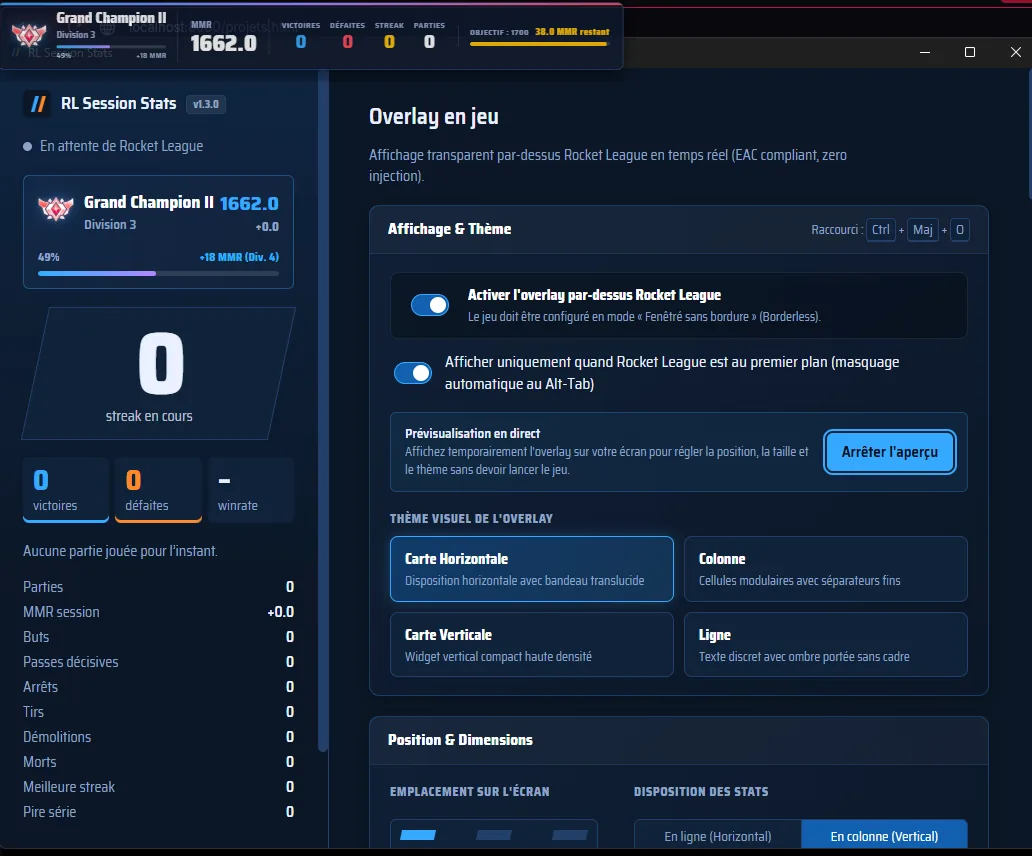
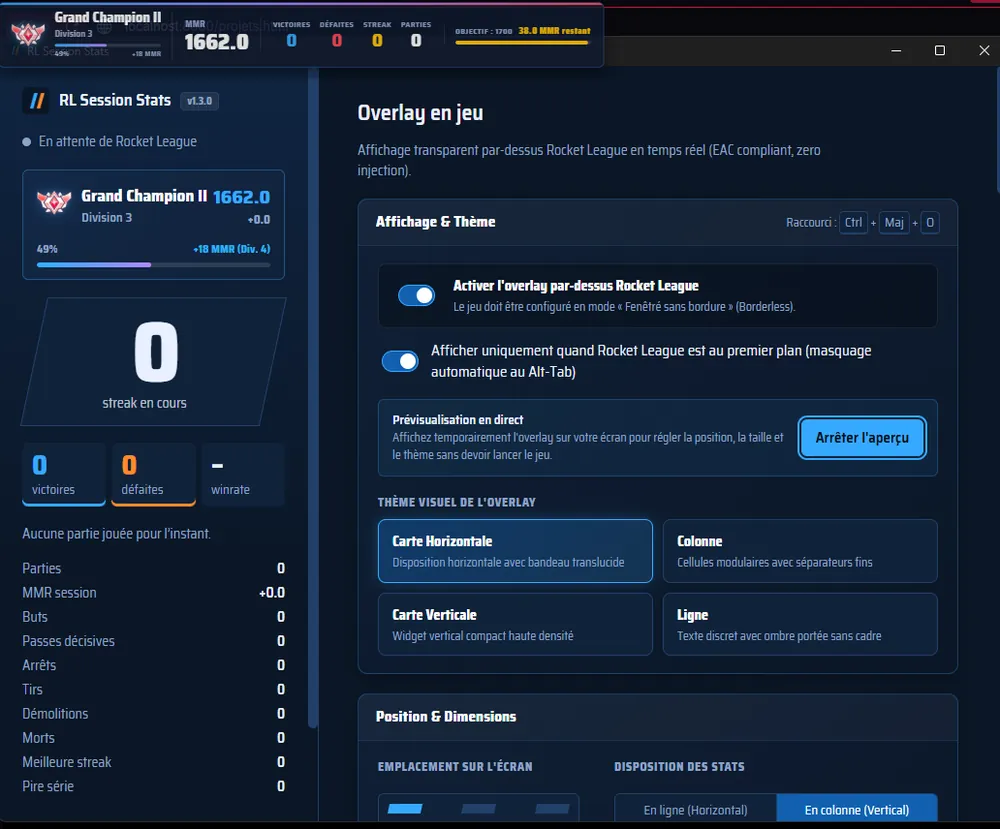
Audit Lighthouse : accessibilité, SEO et bonnes pratiques à 100, captures plus légères
- Cartes Projets : plus de role="link" sur <article> ; lien « Télécharger → » pour le clavier
- Projets : titre de section h2 (lecteurs d'écran) avant les cartes, ordre des titres correct
- Fenêtre de téléchargement : le lien « Relancer » a une adresse dès sa création
- .sr passe dans style.css (utilisé sur plusieurs pages)
- Captures redimensionnées à 1000 px de large : 410 Ko -> 194 Ko au total

diff --git a/downloads.html b/downloads.html
@@ -23,16 +23,16 @@
       href="https://fonts.googleapis.com/css2?family=Bricolage+Grotesque:opsz,wght@12..96,500;12..96,700&family=Inter:wght@400;500;600&family=JetBrains+Mono:wght@400;500&display=swap"
     />
     <script>(function(d){d.classList.add("js");var L="fr";try{L=localStorage.getItem("lang")||((navigator.language||"fr").slice(0,2)==="fr"?"fr":"en")}catch(e){}if(L==="en")d.classList.add("i18n-wait");try{if(localStorage.getItem("calm")==="1")d.classList.add("calm");else if(sessionStorage.getItem("wipe")==="1")d.classList.add("wipe");else if(!sessionStorage.getItem("boot"))d.classList.add("boot")}catch(e){}})(document.documentElement)</script>
-    <link rel="stylesheet" href="CSS/style.css?v=233c2cea" />
+    <link rel="stylesheet" href="CSS/style.css?v=3c6a62b0" />
     <link rel="stylesheet" href="CSS/ui.css?v=3f91b96d" />
     <link rel="stylesheet" href="CSS/home.css?v=75da7b65" />
-    <link rel="stylesheet" href="CSS/downloads.css?v=37bba314" />
-    <script src="JS/i18n-en.js?v=34f19c7e" defer></script>
+    <link rel="stylesheet" href="CSS/downloads.css?v=a6cef253" />
+    <script src="JS/i18n-en.js?v=0fb7e732" defer></script>
     <script src="JS/i18n.js?v=fdd8db68" defer></script>
     <script src="JS/main.js?v=d1fcf276" defer></script>
-    <script src="JS/ui.js?v=2586e102" defer></script>
+    <script src="JS/ui.js?v=d70b3c25" defer></script>
     <script src="JS/downloads-data.js?v=7bf1e993" defer></script>
-    <script src="JS/downloads.js?v=c1819875" defer></script>
+    <script src="JS/downloads.js?v=cfde858e" defer></script>
   </head>
   <body>
     <div class="progress" aria-hidden="true"></div>

diff --git a/projets.html b/projets.html
@@ -23,12 +23,12 @@
       href="https://fonts.googleapis.com/css2?family=Bricolage+Grotesque:opsz,wght@12..96,500;12..96,700&family=Inter:wght@400;500;600&family=JetBrains+Mono:wght@400;500&display=swap"
     />
     <script>(function(d){d.classList.add("js");var L="fr";try{L=localStorage.getItem("lang")||((navigator.language||"fr").slice(0,2)==="fr"?"fr":"en")}catch(e){}if(L==="en")d.classList.add("i18n-wait");try{if(localStorage.getItem("calm")==="1")d.classList.add("calm");else if(sessionStorage.getItem("wipe")==="1")d.classList.add("wipe");else if(!sessionStorage.getItem("boot"))d.classList.add("boot")}catch(e){}})(document.documentElement)</script>
-    <link rel="stylesheet" href="CSS/style.css?v=233c2cea" />
+    <link rel="stylesheet" href="CSS/style.css?v=3c6a62b0" />
     <link rel="stylesheet" href="CSS/ui.css?v=3f91b96d" />
-    <script src="JS/i18n-en.js?v=34f19c7e" defer></script>
+    <script src="JS/i18n-en.js?v=0fb7e732" defer></script>
     <script src="JS/i18n.js?v=fdd8db68" defer></script>
     <script src="JS/main.js?v=d1fcf276" defer></script>
-    <script src="JS/ui.js?v=2586e102" defer></script>
+    <script src="JS/ui.js?v=d70b3c25" defer></script>
   </head>
   <body>
     <div class="progress" aria-hidden="true"></div>
@@ -57,6 +57,7 @@
 
       <section class="block">
         <div class="wrap">
+          <h2 class="sr">Projets phares</h2>
           <div class="featured" data-stagger>
             <article class="project reveal" data-repo="J.A.R.V.I.S" data-dl="dl-jarvis" data-art="voice">
               <div class="shot" data-img="images/projects/jarvis.webp"><span>J.A.R.V.I.S</span></div>

diff --git a/index.html b/index.html
@@ -26,13 +26,13 @@
       href="https://fonts.googleapis.com/css2?family=Bricolage+Grotesque:opsz,wght@12..96,500;12..96,700&family=Inter:wght@400;500;600&family=JetBrains+Mono:wght@400;500&display=swap"
     />
     <script>(function(d){d.classList.add("js");var L="fr";try{L=localStorage.getItem("lang")||((navigator.language||"fr").slice(0,2)==="fr"?"fr":"en")}catch(e){}if(L==="en")d.classList.add("i18n-wait");try{if(localStorage.getItem("calm")==="1")d.classList.add("calm");else if(sessionStorage.getItem("wipe")==="1")d.classList.add("wipe");else if(!sessionStorage.getItem("boot"))d.classList.add("boot")}catch(e){}})(document.documentElement)</script>
-    <link rel="stylesheet" href="CSS/style.css?v=233c2cea" />
+    <link rel="stylesheet" href="CSS/style.css?v=3c6a62b0" />
     <link rel="stylesheet" href="CSS/ui.css?v=3f91b96d" />
     <link rel="stylesheet" href="CSS/home.css?v=75da7b65" />
-    <script src="JS/i18n-en.js?v=34f19c7e" defer></script>
+    <script src="JS/i18n-en.js?v=0fb7e732" defer></script>
     <script src="JS/i18n.js?v=fdd8db68" defer></script>
     <script src="JS/main.js?v=d1fcf276" defer></script>
-    <script src="JS/ui.js?v=2586e102" defer></script>
+    <script src="JS/ui.js?v=d70b3c25" defer></script>
     <script src="JS/home.js?v=de35859e" defer></script>
   </head>
   <body class="home">

diff --git a/404.html b/404.html
@@ -18,13 +18,13 @@
       href="https://fonts.googleapis.com/css2?family=Bricolage+Grotesque:opsz,wght@12..96,500;12..96,700&family=Inter:wght@400;500;600&family=JetBrains+Mono:wght@400;500&display=swap"
     />
     <script>(function(d){d.classList.add("js");var L="fr";try{L=localStorage.getItem("lang")||((navigator.language||"fr").slice(0,2)==="fr"?"fr":"en")}catch(e){}if(L==="en")d.classList.add("i18n-wait");try{if(localStorage.getItem("calm")==="1")d.classList.add("calm");else if(sessionStorage.getItem("wipe")==="1")d.classList.add("wipe");else if(!sessionStorage.getItem("boot"))d.classList.add("boot")}catch(e){}})(document.documentElement)</script>
-    <link rel="stylesheet" href="CSS/style.css?v=233c2cea" />
+    <link rel="stylesheet" href="CSS/style.css?v=3c6a62b0" />
     <link rel="stylesheet" href="CSS/ui.css?v=3f91b96d" />
     <link rel="stylesheet" href="CSS/home.css?v=75da7b65" />
-    <script src="JS/i18n-en.js?v=34f19c7e" defer></script>
+    <script src="JS/i18n-en.js?v=0fb7e732" defer></script>
     <script src="JS/i18n.js?v=fdd8db68" defer></script>
     <script src="JS/main.js?v=d1fcf276" defer></script>
-    <script src="JS/ui.js?v=2586e102" defer></script>
+    <script src="JS/ui.js?v=d70b3c25" defer></script>
   </head>
   <body>
     <div class="progress" aria-hidden="true"></div>

diff --git a/apropos.html b/apropos.html
@@ -23,12 +23,12 @@
       href="https://fonts.googleapis.com/css2?family=Bricolage+Grotesque:opsz,wght@12..96,500;12..96,700&family=Inter:wght@400;500;600&family=JetBrains+Mono:wght@400;500&display=swap"
     />
     <script>(function(d){d.classList.add("js");var L="fr";try{L=localStorage.getItem("lang")||((navigator.language||"fr").slice(0,2)==="fr"?"fr":"en")}catch(e){}if(L==="en")d.classList.add("i18n-wait");try{if(localStorage.getItem("calm")==="1")d.classList.add("calm");else if(sessionStorage.getItem("wipe")==="1")d.classList.add("wipe");else if(!sessionStorage.getItem("boot"))d.classList.add("boot")}catch(e){}})(document.documentElement)</script>
-    <link rel="stylesheet" href="CSS/style.css?v=233c2cea" />
+    <link rel="stylesheet" href="CSS/style.css?v=3c6a62b0" />
     <link rel="stylesheet" href="CSS/ui.css?v=3f91b96d" />
-    <script src="JS/i18n-en.js?v=34f19c7e" defer></script>
+    <script src="JS/i18n-en.js?v=0fb7e732" defer></script>
     <script src="JS/i18n.js?v=fdd8db68" defer></script>
     <script src="JS/main.js?v=d1fcf276" defer></script>
-    <script src="JS/ui.js?v=2586e102" defer></script>
+    <script src="JS/ui.js?v=d70b3c25" defer></script>
     <script src="JS/interests.js?v=b8390380" defer></script>
   </head>
   <body>

diff --git a/competences.html b/competences.html
@@ -26,12 +26,12 @@
       href="https://fonts.googleapis.com/css2?family=Bricolage+Grotesque:opsz,wght@12..96,500;12..96,700&family=Inter:wght@400;500;600&family=JetBrains+Mono:wght@400;500&display=swap"
     />
     <script>(function(d){d.classList.add("js");var L="fr";try{L=localStorage.getItem("lang")||((navigator.language||"fr").slice(0,2)==="fr"?"fr":"en")}catch(e){}if(L==="en")d.classList.add("i18n-wait");try{if(localStorage.getItem("calm")==="1")d.classList.add("calm");else if(sessionStorage.getItem("wipe")==="1")d.classList.add("wipe");else if(!sessionStorage.getItem("boot"))d.classList.add("boot")}catch(e){}})(document.documentElement)</script>
-    <link rel="stylesheet" href="CSS/style.css?v=233c2cea" />
+    <link rel="stylesheet" href="CSS/style.css?v=3c6a62b0" />
     <link rel="stylesheet" href="CSS/ui.css?v=3f91b96d" />
-    <script src="JS/i18n-en.js?v=34f19c7e" defer></script>
+    <script src="JS/i18n-en.js?v=0fb7e732" defer></script>
     <script src="JS/i18n.js?v=fdd8db68" defer></script>
     <script src="JS/main.js?v=d1fcf276" defer></script>
-    <script src="JS/ui.js?v=2586e102" defer></script>
+    <script src="JS/ui.js?v=d70b3c25" defer></script>
   </head>
   <body>
     <div class="progress" aria-hidden="true"></div>

diff --git a/cv.html b/cv.html
@@ -23,12 +23,12 @@
       href="https://fonts.googleapis.com/css2?family=Bricolage+Grotesque:opsz,wght@12..96,500;12..96,700&family=Inter:wght@400;500;600&family=JetBrains+Mono:wght@400;500&display=swap"
     />
     <script>(function(d){d.classList.add("js");var L="fr";try{L=localStorage.getItem("lang")||((navigator.language||"fr").slice(0,2)==="fr"?"fr":"en")}catch(e){}if(L==="en")d.classList.add("i18n-wait");try{if(localStorage.getItem("calm")==="1")d.classList.add("calm");else if(sessionStorage.getItem("wipe")==="1")d.classList.add("wipe");else if(!sessionStorage.getItem("boot"))d.classList.add("boot")}catch(e){}})(document.documentElement)</script>
-    <link rel="stylesheet" href="CSS/style.css?v=233c2cea" />
+    <link rel="stylesheet" href="CSS/style.css?v=3c6a62b0" />
     <link rel="stylesheet" href="CSS/ui.css?v=3f91b96d" />
-    <script src="JS/i18n-en.js?v=34f19c7e" defer></script>
+    <script src="JS/i18n-en.js?v=0fb7e732" defer></script>
     <script src="JS/i18n.js?v=fdd8db68" defer></script>
     <script src="JS/main.js?v=d1fcf276" defer></script>
-    <script src="JS/ui.js?v=2586e102" defer></script>
+    <script src="JS/ui.js?v=d70b3c25" defer></script>
   </head>
   <body>
     <div class="progress" aria-hidden="true"></div>

diff --git a/ghostmesh.html b/ghostmesh.html
@@ -23,12 +23,12 @@
       href="https://fonts.googleapis.com/css2?family=Bricolage+Grotesque:opsz,wght@12..96,500;12..96,700&family=Inter:wght@400;500;600&family=JetBrains+Mono:wght@400;500&display=swap"
     />
     <script>(function(d){d.classList.add("js");var L="fr";try{L=localStorage.getItem("lang")||((navigator.language||"fr").slice(0,2)==="fr"?"fr":"en")}catch(e){}if(L==="en")d.classList.add("i18n-wait");try{if(localStorage.getItem("calm")==="1")d.classList.add("calm");else if(sessionStorage.getItem("wipe")==="1")d.classList.add("wipe");else if(!sessionStorage.getItem("boot"))d.classList.add("boot")}catch(e){}})(document.documentElement)</script>
-    <link rel="stylesheet" href="CSS/style.css?v=233c2cea" />
+    <link rel="stylesheet" href="CSS/style.css?v=3c6a62b0" />
     <link rel="stylesheet" href="CSS/ui.css?v=3f91b96d" />
-    <script src="JS/i18n-en.js?v=34f19c7e" defer></script>
+    <script src="JS/i18n-en.js?v=0fb7e732" defer></script>
     <script src="JS/i18n.js?v=fdd8db68" defer></script>
     <script src="JS/main.js?v=d1fcf276" defer></script>
-    <script src="JS/ui.js?v=2586e102" defer></script>
+    <script src="JS/ui.js?v=d70b3c25" defer></script>
   </head>
   <body>
     <div class="progress" aria-hidden="true"></div>

diff --git a/mentions-legales.html b/mentions-legales.html
@@ -23,12 +23,12 @@
       href="https://fonts.googleapis.com/css2?family=Bricolage+Grotesque:opsz,wght@12..96,500;12..96,700&family=Inter:wght@400;500;600&family=JetBrains+Mono:wght@400;500&display=swap"
     />
     <script>(function(d){d.classList.add("js");var L="fr";try{L=localStorage.getItem("lang")||((navigator.language||"fr").slice(0,2)==="fr"?"fr":"en")}catch(e){}if(L==="en")d.classList.add("i18n-wait");try{if(localStorage.getItem("calm")==="1")d.classList.add("calm");else if(sessionStorage.getItem("wipe")==="1")d.classList.add("wipe");else if(!sessionStorage.getItem("boot"))d.classList.add("boot")}catch(e){}})(document.documentElement)</script>
-    <link rel="stylesheet" href="CSS/style.css?v=233c2cea" />
+    <link rel="stylesheet" href="CSS/style.css?v=3c6a62b0" />
     <link rel="stylesheet" href="CSS/ui.css?v=3f91b96d" />
-    <script src="JS/i18n-en.js?v=34f19c7e" defer></script>
+    <script src="JS/i18n-en.js?v=0fb7e732" defer></script>
     <script src="JS/i18n.js?v=fdd8db68" defer></script>
     <script src="JS/main.js?v=d1fcf276" defer></script>
-    <script src="JS/ui.js?v=2586e102" defer></script>
+    <script src="JS/ui.js?v=d70b3c25" defer></script>
   </head>
   <body>
     <div class="progress" aria-hidden="true"></div>

diff --git a/modshift.html b/modshift.html
@@ -23,12 +23,12 @@
       href="https://fonts.googleapis.com/css2?family=Bricolage+Grotesque:opsz,wght@12..96,500;12..96,700&family=Inter:wght@400;500;600&family=JetBrains+Mono:wght@400;500&display=swap"
     />
     <script>(function(d){d.classList.add("js");var L="fr";try{L=localStorage.getItem("lang")||((navigator.language||"fr").slice(0,2)==="fr"?"fr":"en")}catch(e){}if(L==="en")d.classList.add("i18n-wait");try{if(localStorage.getItem("calm")==="1")d.classList.add("calm");else if(sessionStorage.getItem("wipe")==="1")d.classList.add("wipe");else if(!sessionStorage.getItem("boot"))d.classList.add("boot")}catch(e){}})(document.documentElement)</script>
-    <link rel="stylesheet" href="CSS/style.css?v=233c2cea" />
+    <link rel="stylesheet" href="CSS/style.css?v=3c6a62b0" />
     <link rel="stylesheet" href="CSS/ui.css?v=3f91b96d" />
-    <script src="JS/i18n-en.js?v=34f19c7e" defer></script>
+    <script src="JS/i18n-en.js?v=0fb7e732" defer></script>
     <script src="JS/i18n.js?v=fdd8db68" defer></script>
     <script src="JS/main.js?v=d1fcf276" defer></script>
-    <script src="JS/ui.js?v=2586e102" defer></script>
+    <script src="JS/ui.js?v=d70b3c25" defer></script>
   </head>
   <body>
     <div class="progress" aria-hidden="true"></div>

diff --git a/JS/ui.js b/JS/ui.js
@@ -516,16 +516,17 @@
   });
   /* Projets : un clic sur la carte ouvre sa fiche dans la page Téléchargements */
   $$(".project[data-dl]").forEach((card) => {
-    const go = () => navigate(`downloads.html#${card.dataset.dl}`);
-    card.tabIndex = 0;
-    card.setAttribute("role", "link");
-    card.setAttribute("aria-label", t("{name} : voir les téléchargements", { name: $("h3", card).textContent }));
+    const url = `downloads.html#${card.dataset.dl}`;
     card.addEventListener("click", (e) => {
-      if (!e.target.closest("a, button")) go();
+      if (!e.target.closest("a, button")) navigate(url);
     });
-    card.addEventListener("keydown", (e) => {
-      if (e.key === "Enter" && e.target === card) go();
-    });
+    /* lien visible pour le clavier et les lecteurs d'écran (sauf si la carte en a déjà un) */
+    const last = $$("a.link", card).pop();
+    if (last && !$('a[href^="downloads.html"]', card)) {
+      const a = el("a", "link", t("Télécharger →"));
+      a.href = url;
+      last.after(" ", a);
+    }
   });
   const fmt = (iso) => new Date(iso).toLocaleDateString(I18N.locale, { day: "numeric", month: "short", year: "numeric" });
   document.addEventListener("repos", (e) => {

diff --git a/JS/i18n-en.js b/JS/i18n-en.js
@@ -272,6 +272,7 @@ window.I18N_EN = {
  "Fork du mod Minecraft de Kay9Unit, que j'ai porté de Forge 1.21 vers Fabric pour Minecraft 26.2, avec deux nouvelles races de dragons : Améthyste et Sculk.": "Fork of Kay9Unit's Minecraft mod, which I ported from Forge 1.21 to Fabric for Minecraft 26.2, with two new dragon breeds: Amethyst and Sculk.",
  "Projet d'origine ↗": "Original project ↗",
  "Télécharger →": "Download →",
+ "Projets phares": "Featured projects",
  "(copie impossible : sélectionne-le)": "(copy failed: select it manually)",
  "(copié dans le presse-papiers)": "(copied to clipboard)",
  "Activer les animations": "Turn animations on",
